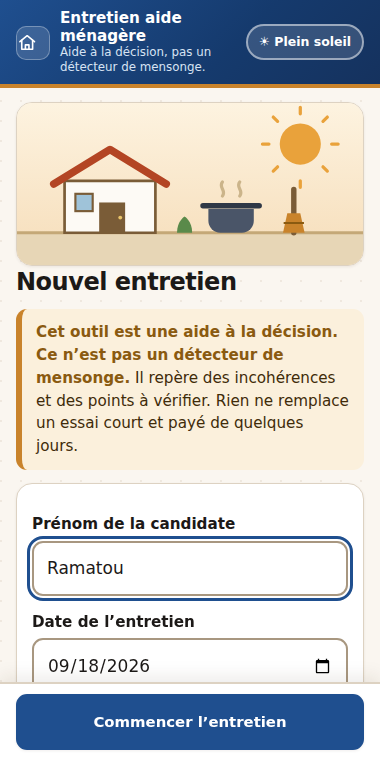
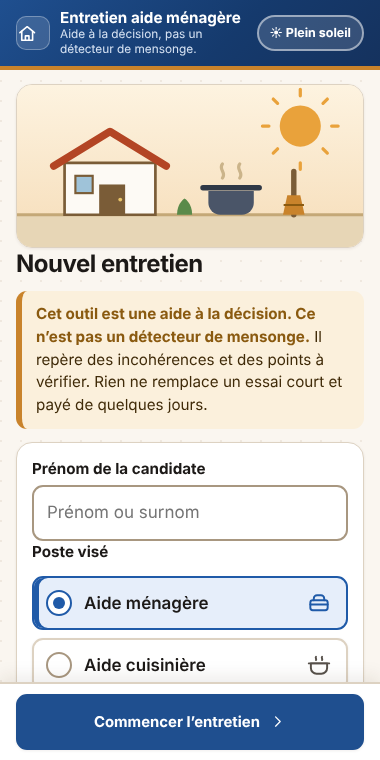
Met à jour la SPEC et les captures du README après la refonte de l'interface
Claude-Session: https://claude.ai/code/session_01Akeh5kaxP9TufeRtF8Db5G

diff --git a/docs/SPEC.md b/docs/SPEC.md
@@ -171,8 +171,12 @@ Ces seuils sont des valeurs de départ. Ils seront calibrés après une quinzain
 ## 7. Fonctionnalités
 
 - **Fiche candidate** : prénom, date, poste visé, note libre (dont situation familiale facultative).
-- **Rappel à l'écran** avant de commencer : informer la candidate que ses réponses sont notées.
+- **Fiche en gros boutons** : le poste et le logement se choisissent d'un seul appui.
+- **Rappel à l'écran** avant de commencer : un écran « À lire à voix haute », juste avant la première question,
+  pour informer la candidate que ses réponses sont notées.
 - **Entretien pas à pas** : une question par écran, barre de progression, gros boutons, retour arrière possible.
+  Dans les questions à plusieurs points, chaque point coché est marqué et l'écran descend seul vers le suivant.
+- **Questions oubliées** : avant le résultat, l'app liste les questions sans réponse complète et propose d'y revenir.
 - **Épreuve pratique** facultative (section 4).
 - **Écran de résultat** imprimable (CSS `@media print`).
 - **Export** de l'entretien en JSON et CSV (téléchargement local), fichiers nommés `entretien-<prénom>-<date>.json` / `.csv`.
@@ -184,6 +188,8 @@ Ces seuils sont des valeurs de départ. Ils seront calibrés après une quinzain
 - **Nouveau tirage** possible du scénario de Q4 ou Q6, quand la variante a déjà servi avec une autre candidate.
 - **Détail des réponses** sur l'écran de résultat, replié à l'écran et déplié à l'impression.
 - **Mode plein soleil** : texte agrandi et contrastes renforcés, mémorisé localement.
+- **Confort** : confirmations dans l'app plutôt que dans les fenêtres du navigateur, courte annonce après chaque
+  enregistrement, transitions douces entre les écrans, supprimées si le téléphone demande moins de mouvement.
 
 ## 8. Contrat technique
 
